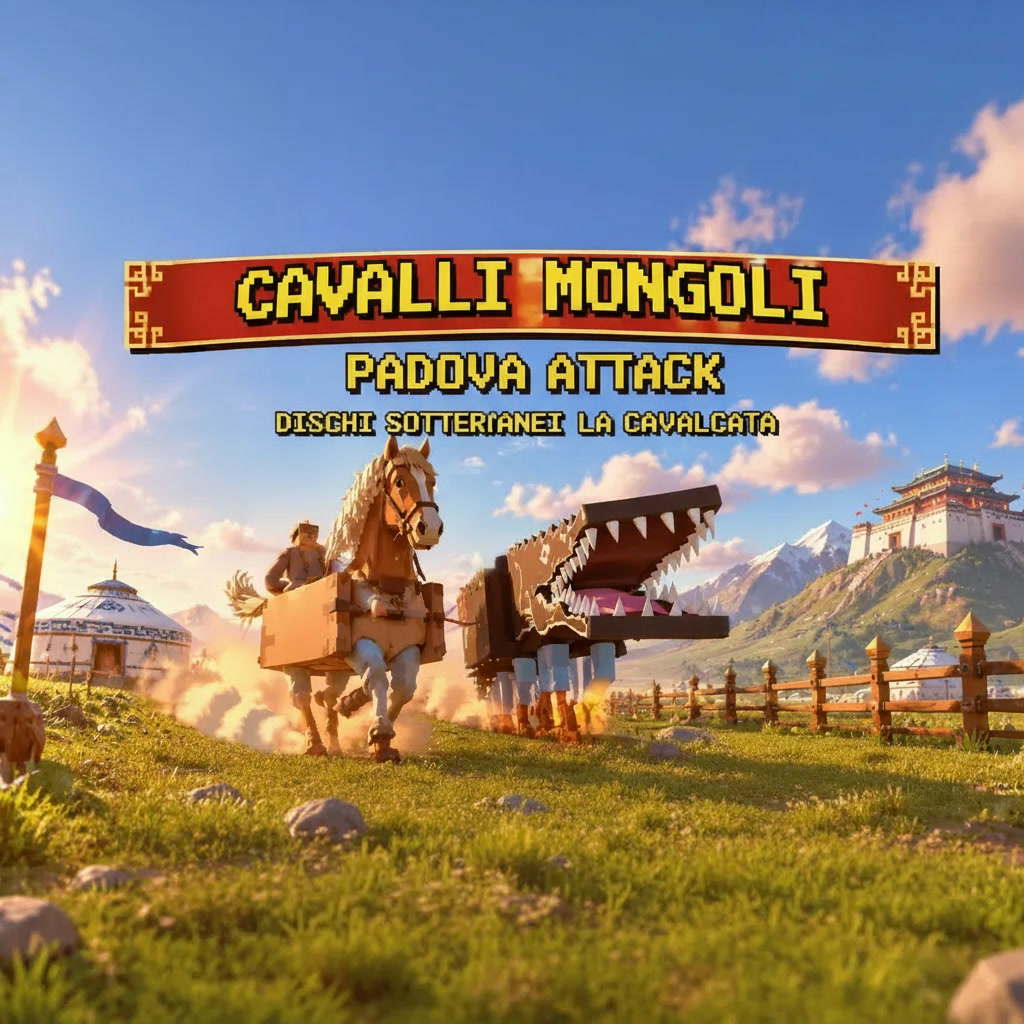
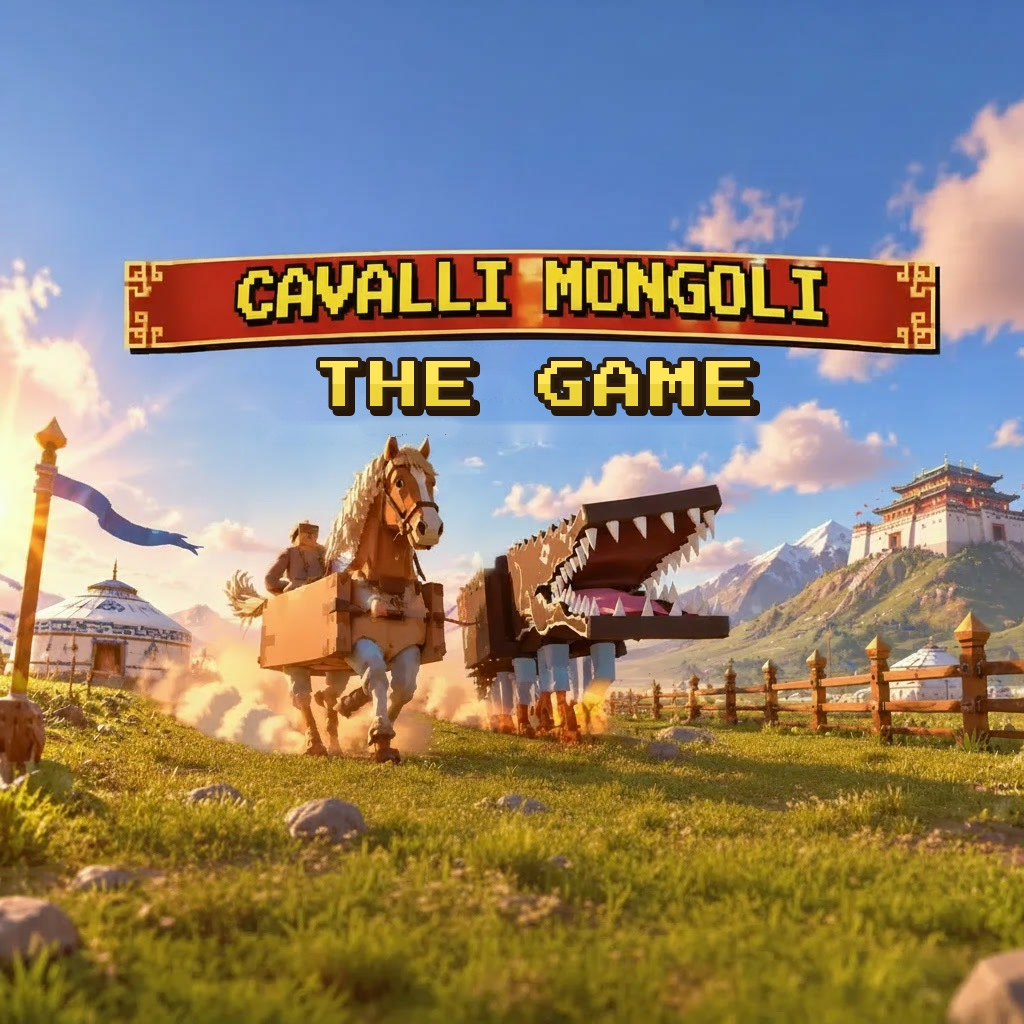
feat(copertina): titolo CAVALLI MONGOLI THE GAME
La copertina precedente (Padova Attack) resta come copertina-padova-attack.jpg;
tools/copertina/the-game.py compone la nuova con scene dal motore.

Changed region(s): [[0.25, 0.3438, 0.7812, 0.4375]]

diff --git a/tools/copertina/the-game.py b/tools/copertina/the-game.py
@@ -1,0 +1,68 @@
+"""Copertina del gioco: via il sottotitolo della serata (PADOVA ATTACK / DISCHI SOTTERRANEI LA CAVALCATA, 13 nov 2026)
+e al suo posto THE GAME, nello stesso stile a pixel (giallo, contorno scuro, ombra in basso a destra).
+Il cielo si ricostruisce con l'inpainting di OpenCV (vedi sotto); le orecchie del cavallo restano quelle vere.
+uso: python tools/copertina/the-game.py assets/titoli/copertina-padova-attack.jpg assets/titoli/copertina.jpg   (serve opencv-python-headless, numpy, pillow)
+"""
+import sys, os
+import numpy as np, cv2
+from PIL import Image, ImageDraw, ImageFont
+
+SRC, OUT = sys.argv[1], sys.argv[2]
+FONT = os.path.join(os.path.dirname(__file__), '..', '..', 'vendor', 'font', 'PressStart2P.woff2')
+img = np.array(Image.open(SRC).convert('RGB'))
+h, w, _ = img.shape
+assert (w, h) == (1024, 1024), (w, h)
+
+# Le due righe del sottotitolo stanno su cielo azzurro. Prima riga (PADOVA ATTACK): si tolgono solo i pixel delle
+# lettere (giallo + contorno scuro, allargati), così fra una lettera e l'altra resta il cielo vero; seconda riga (piccola
+# e fitta): via tutto il rettangolo. Il cielo lo ricostruisce l'inpainting di OpenCV.
+# Trappola: le punte delle orecchie del cavallo spuntano subito sotto la seconda riga (x 383-440, da y 433): l'inpainting
+# ne tirava su il colore. Durante il calcolo le orecchie si coprono col colore del cielo, poi si rimettono quelle vere.
+yy, xx = np.mgrid[0:h, 0:w]
+r, g, b = [img[..., i].astype(int) for i in range(3)]
+cielo = (b > r + 40) & (b > g + 15)
+giallo = (r > 140) & (g > 120) & (b < 150) & (r - b > 60)
+scuro = (r + g + b) < 330
+mask = np.zeros((h, w), np.uint8)
+riga1 = (xx >= 338) & (xx < 735) & (yy >= 348) & (yy < 400)
+mask[riga1 & (giallo | scuro)] = 255
+mask = cv2.dilate(mask, np.ones((5, 5), np.uint8), iterations=2)
+mask[(xx >= 262) & (xx < 790) & (yy >= 403) & (yy < 442)] = 255   # fino a 442: sotto restavano puntini dell'ombra
+mask[:348, :] = 0                                   # la banda rossa non si tocca
+orecchie = (xx >= 372) & (xx < 448) & (yy >= 434) & (yy < 480) & ~cielo
+lavoro = img.copy()
+intorno = (xx >= 340) & (xx < 480) & (yy >= 438) & (yy < 452) & cielo
+lavoro[orecchie] = img[intorno].mean(axis=0).astype(np.uint8)
+mask[orecchie] = 0
+pulita = cv2.inpaint(cv2.cvtColor(lavoro, cv2.COLOR_RGB2BGR), mask, 7, cv2.INPAINT_TELEA)
+pulita = cv2.cvtColor(pulita, cv2.COLOR_BGR2RGB)
+ver = orecchie & ((yy >= 437) | ~scuro)               # le orecchie vere (sopra y 437 lo scuro è l'ombra delle lettere)
+pulita[ver] = img[ver]
+pulita = Image.fromarray(pulita)
+
+# THE GAME, centrato sotto la banda (il centro di PADOVA ATTACK era x 535)
+d = ImageDraw.Draw(pulita)
+font = ImageFont.truetype(FONT, 50)
+testo, spazio = 'THE GAME', 6
+larg = [d.textlength(c, font=font) for c in testo]
+tot = sum(larg) + spazio * (len(testo) - 1)
+cx, base = 535, 412
+def scrivi(dx, dy, fill, stroke, stroke_fill):
+    x = cx - tot / 2 + dx
+    for c, wc in zip(testo, larg):
+        d.text((x, base + dy), c, font=font, fill=fill, anchor='ls', stroke_width=stroke, stroke_fill=stroke_fill)
+        x += wc + spazio
+scrivi(5, 5, (38, 22, 10), 5, (38, 22, 10))           # ombra
+scrivi(0, 0, (236, 212, 58), 4, (46, 30, 16))         # lettere col contorno
+# un filo più chiaro in cima alle lettere, come nell'originale
+strato = Image.new('L', pulita.size, 0)
+ds = ImageDraw.Draw(strato)
+x = cx - tot / 2
+for c, wc in zip(testo, larg):
+    ds.text((x, base), c, font=font, fill=255, anchor='ls'); x += wc + spazio
+alto = np.array(strato) > 0
+alto[base - 28:, :] = False
+arr = np.array(pulita)
+arr[alto] = (np.clip(arr[alto].astype(int) + [18, 18, 30], 0, 255)).astype(np.uint8)
+Image.fromarray(arr).save(OUT, quality=93)
+print('ok', OUT)
